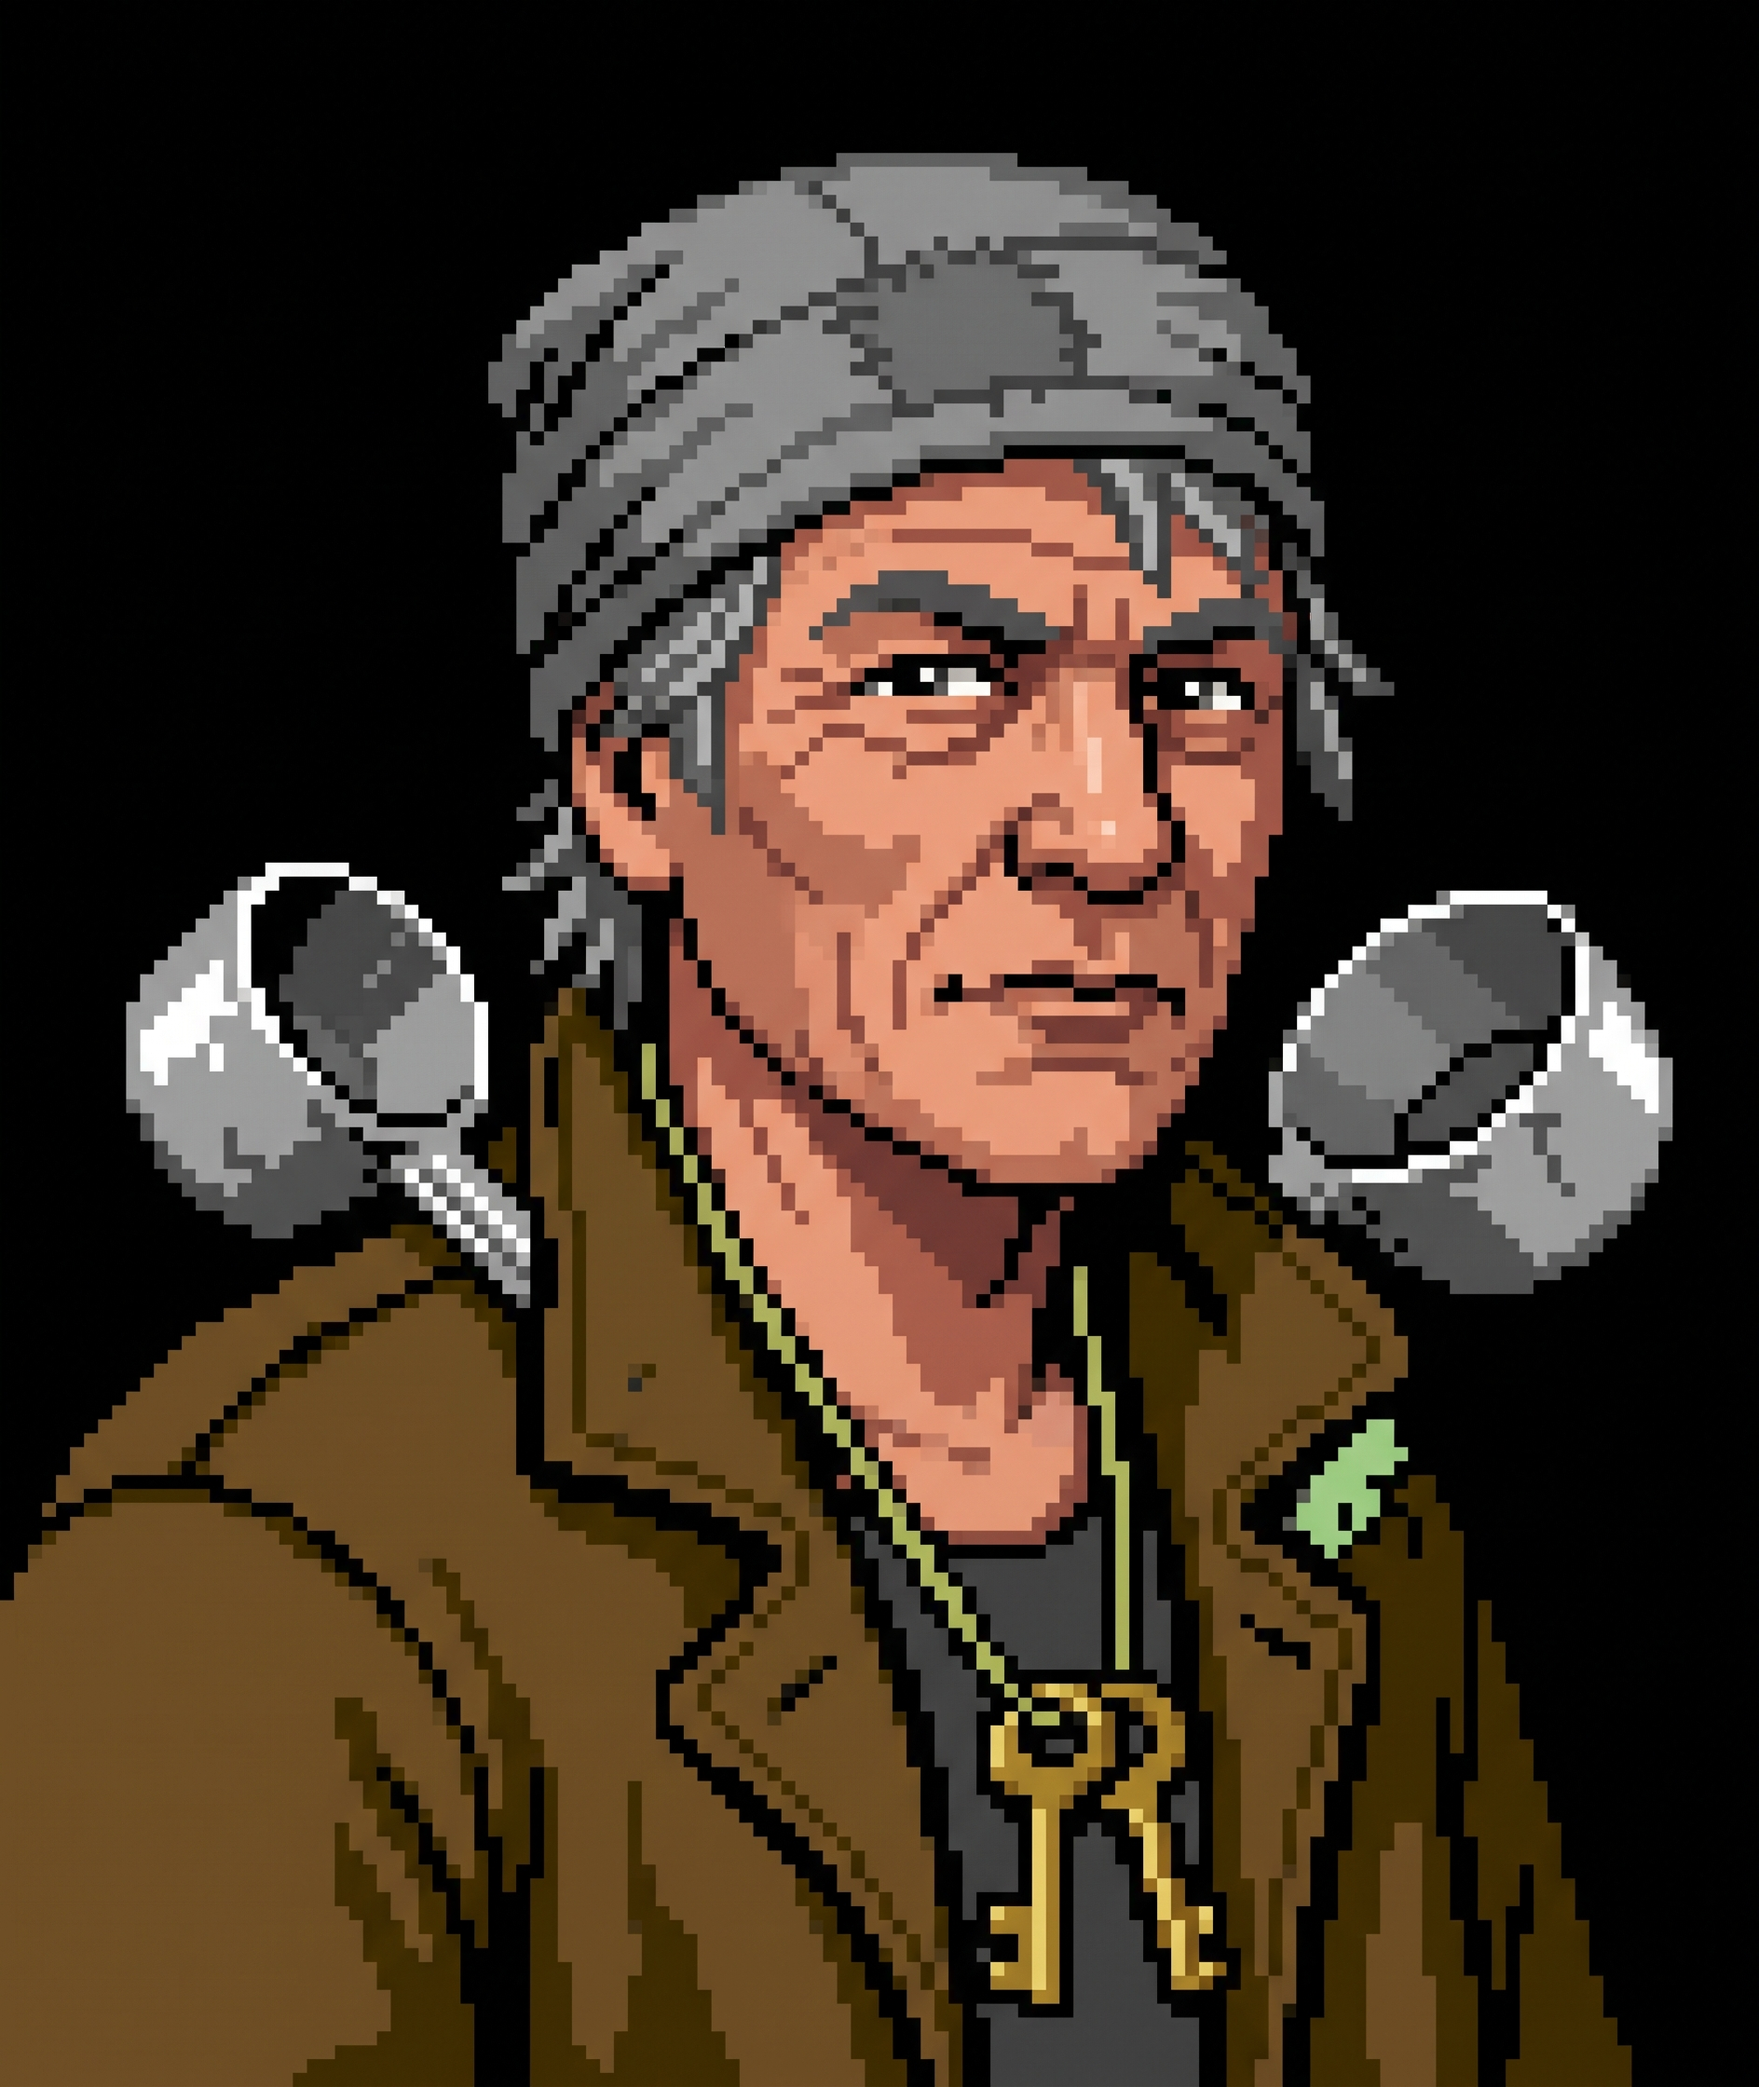
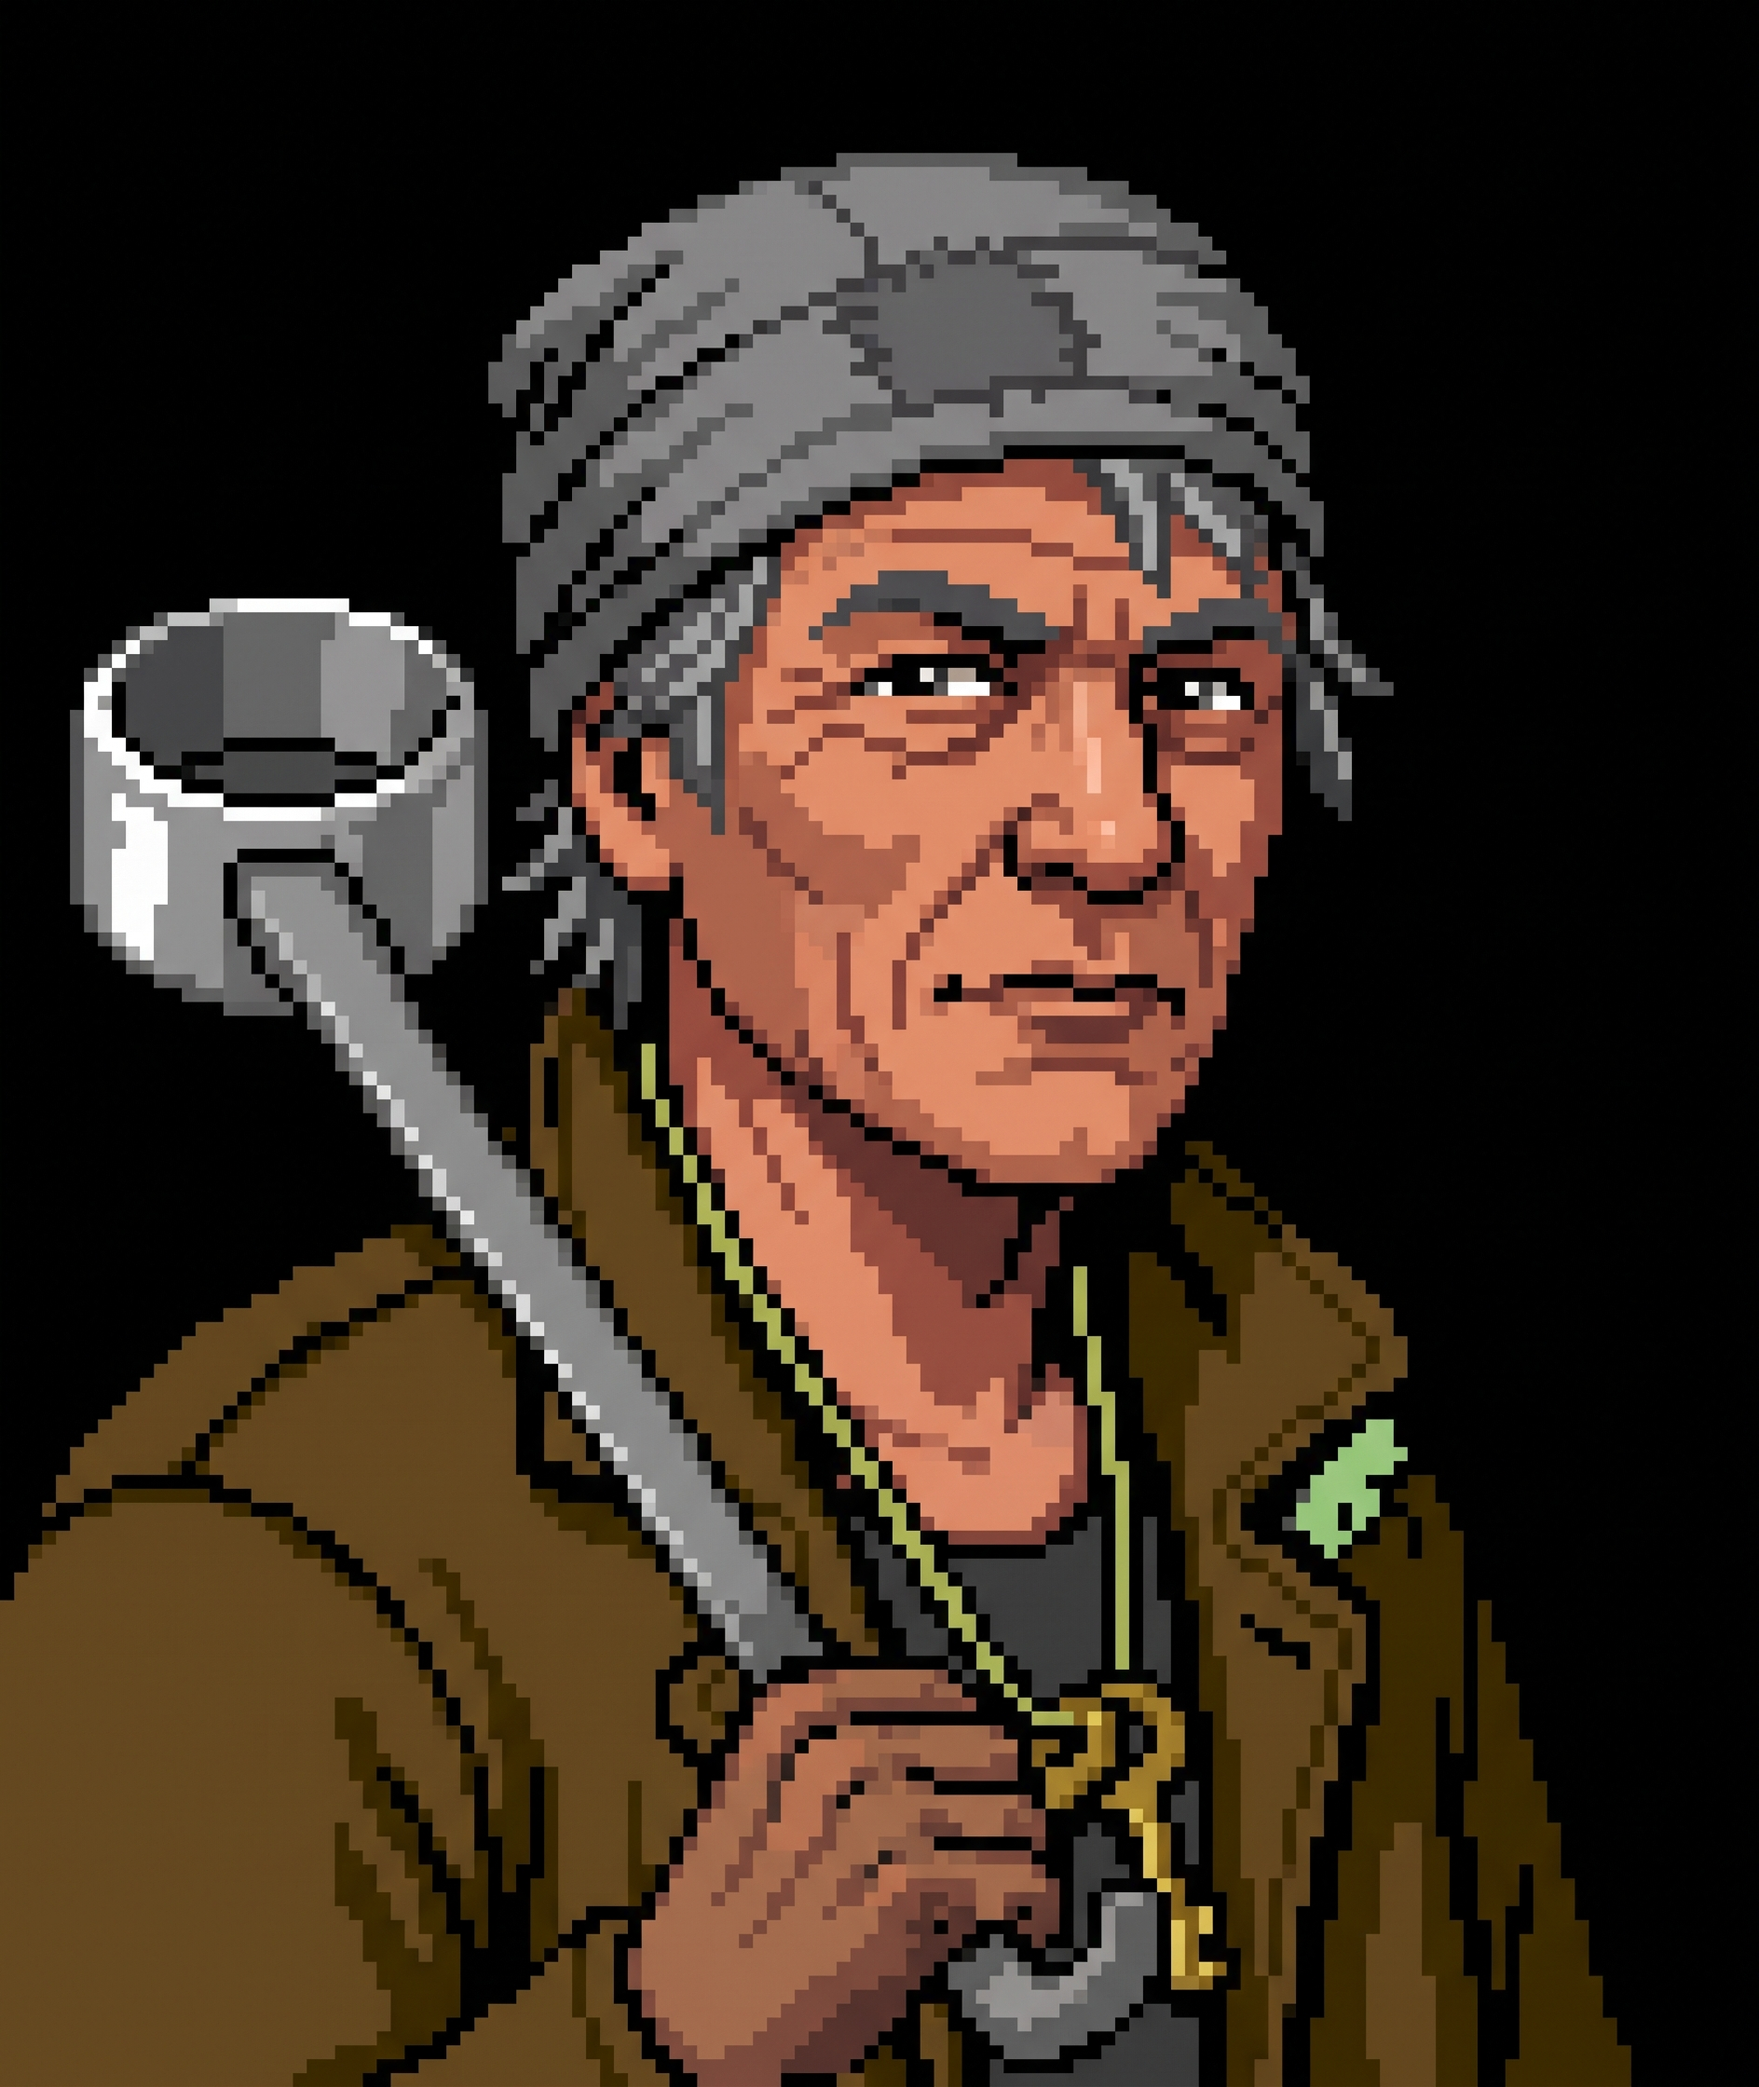
Nuclear Land: Hesper's new portrait (the ladle over the shoulder)
Converted from the new painting; convert_c64.py's Hesper settings follow it:
light grey on the ladle's cup and handle, keys gold but not the hand holding
them, no red streak at the temple.

diff --git a/nuclear-land/assets/original/convert_c64.py b/nuclear-land/assets/original/convert_c64.py
@@ -74,8 +74,9 @@ CONFIGS = {
         iris=CYAN,
         brow_fix=78,                                                      # no white speck in the left brow
         base=[RED, YELLOW, ORANGE, PINK, GREY, LGREEN],
-        add=[((0, 7, 5, 12), [LGREY]), ((11, 7, 15, 12), [LGREY])],      # shine on the two cups
-        gold=[(6, 14, 11, 18)],                                           # keys
+        add=[((0, 4, 5, 7), [LGREY]), ((1, 8, 7, 14), [LGREY])],         # shine on the ladle, cup and handle
+        remove=[((10, 3, 12, 6), [RED])],                                 # no red streak at the temple
+        gold=[(10, 15, 12, 18)],                                          # keys (not the hand round them)
     ),
     'Ilse-Brandt': dict(                                                  # the warden
         src='Ilse-Brandt.jpeg',
